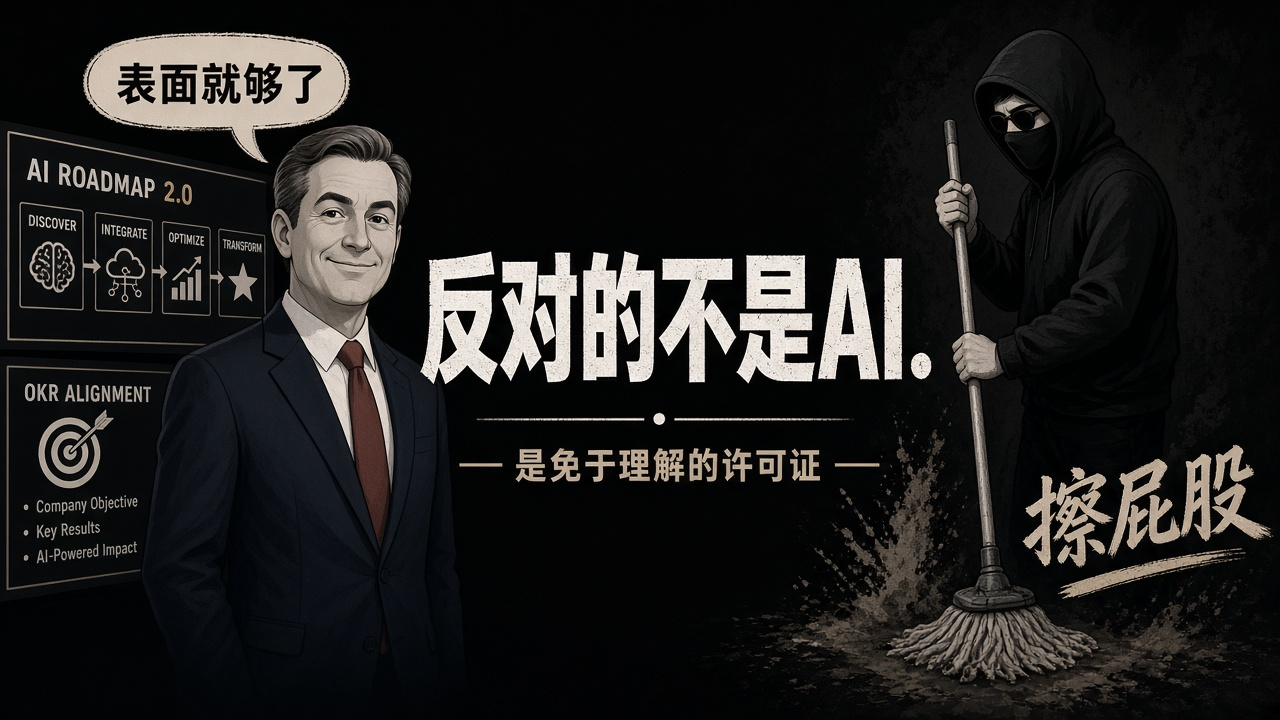
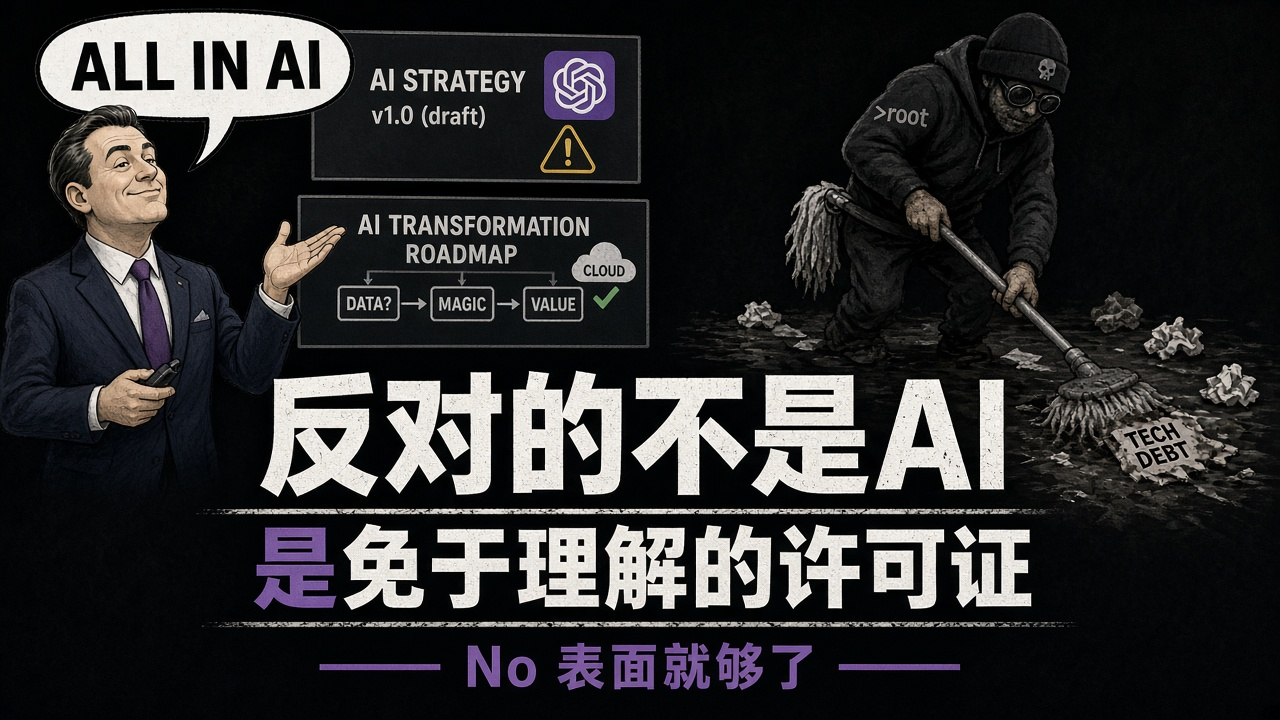
Revise gate satire: ALL IN AI half-baked PM
Overwrite gate-ai-satire-simple.jpg — bubble ALL IN AI;
half-baked PM, not 表面就够了. Align image alt text.

diff --git a/src/gate.js b/src/gate.js
@@ -146,7 +146,7 @@ export function renderGate(root, { onSuccess }) {
             <img
               class="gate-satire-image"
               src="${import.meta.env.BASE_URL}notes-assets/gate/gate-ai-satire-simple.jpg"
-              alt="讽刺插画：表面黑话 PM 用 AI 要结果，开发者擦屁股"
+              alt="讽刺插画：半吊子 PM 喊 ALL IN AI，开发者擦屁股"
               width="1280"
               height="720"
               decoding="async"
